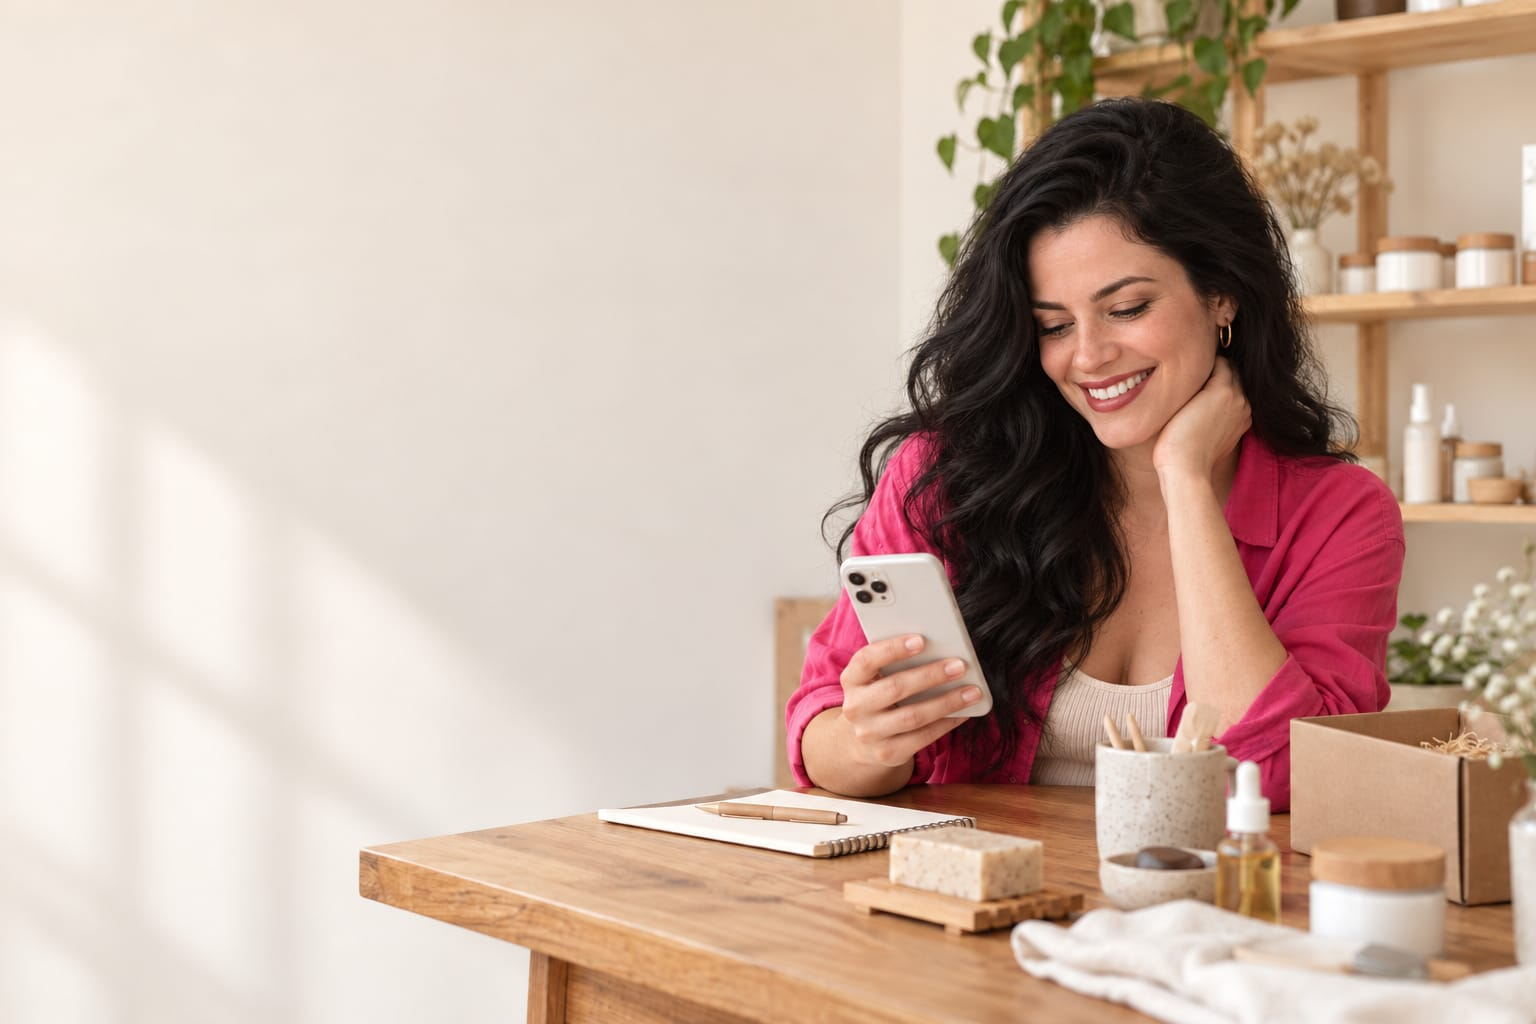
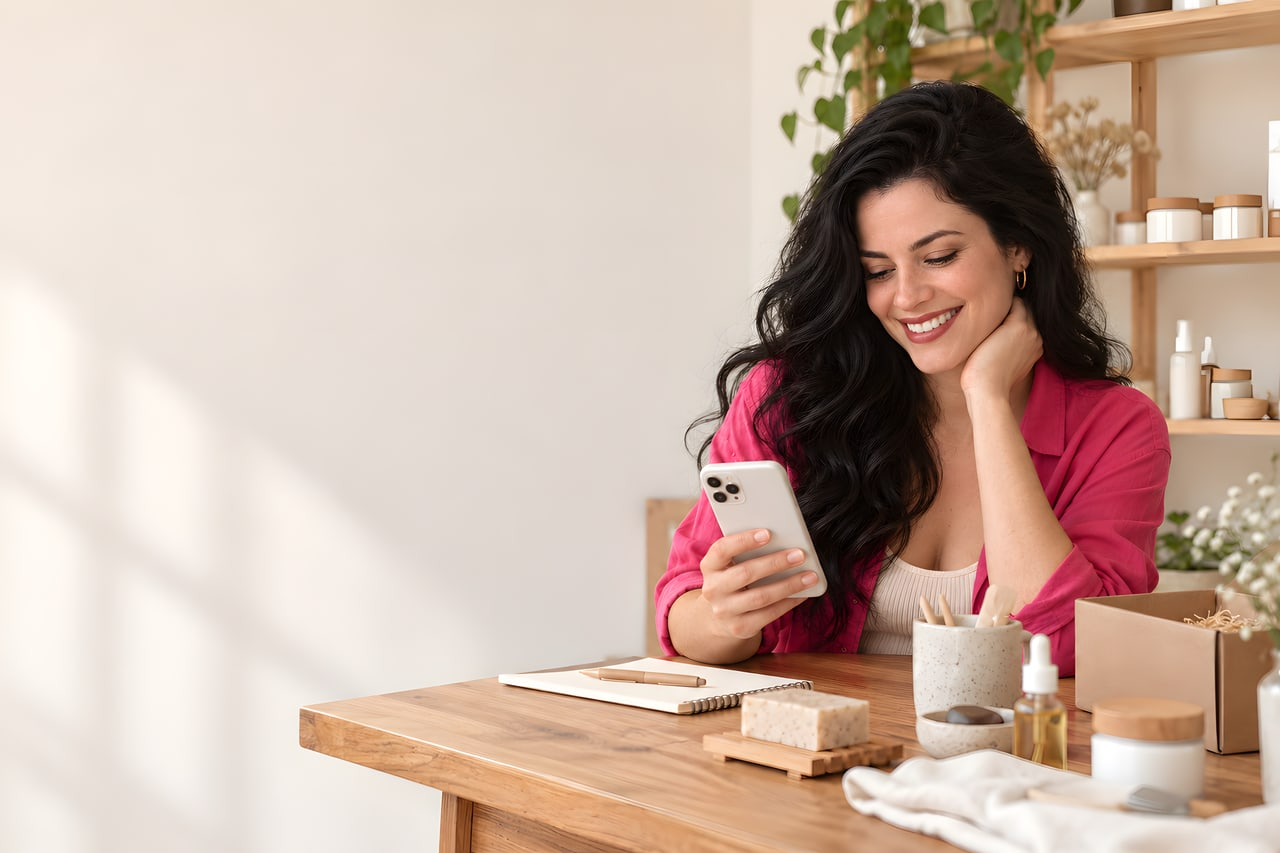
feat(ajuda): blog e central juntos, voto útil salvo, Nôti e status ao vivo
- Abas "Central de ajuda | Blog" e busca única nas duas partes; endereços do
  blog não mudam (SEO). Central ganha "Do blog"; cada post ganha
  "Como fazer no Notifiquei" com artigos da ajuda do mesmo assunto; blog
  aceita capa em foto (frontmatter cover) com a capa desenhada de reserva.
- "Este artigo foi útil?": voto salvo no D1 (functions/api/ajuda-voto.js,
  binding AJUDA_DB) e placar "X de Y acharam útil"; um voto por navegador.
- Nôti acenando no "Precisa de ajuda?".
- Selo de status ao vivo (lê /status/public) em vez da bolinha verde fixa.
- Foto do topo e do contato ampliadas com IA (Real-ESRGAN), srcset 1280/2560.
- Respiro antes da faixa "Não achou?" e no topo das páginas internas.

Claude-Session: https://claude.ai/code/session_01MMT1GTPnFLwBb8WjghwVdo

Changed region(s): [[0.9375, 0.2134, 1.0, 0.2743], [0.9375, 0.4267, 0.9688, 0.4572], [0.5938, 0.3658, 0.625, 0.3962]]

diff --git a/src/styles/ajuda.css b/src/styles/ajuda.css
@@ -17,11 +17,15 @@
 .aj-hero__rodape a { color: var(--ink); font-weight: 600; }
 .aj-hero__pop a { text-decoration: underline; text-underline-offset: 3px; text-decoration-color: var(--line); }
 .aj-status { display: inline-flex; align-items: center; gap: 8px; padding: 6px 12px; border-radius: 999px; background: #fff; border: 1px solid var(--line); text-decoration: none !important; }
-.aj-status__ponto { width: 8px; height: 8px; border-radius: 50%; background: var(--positive); box-shadow: 0 0 0 4px var(--positive-wash); }
+.aj-status__ponto { width: 8px; height: 8px; border-radius: 50%; background: var(--ink-faint); }
+.aj-status[data-estado="operational"] .aj-status__ponto { background: var(--positive); box-shadow: 0 0 0 4px var(--positive-wash); }
+.aj-status[data-estado="degraded"] .aj-status__ponto { background: #D98A00; box-shadow: 0 0 0 4px #d98a001a; }
+.aj-status[data-estado="outage"] .aj-status__ponto { background: #D92D20; box-shadow: 0 0 0 4px #d92d201a; }
 
 /* ── Blocos ─────────────────────────────────────────────────── */
 .aj-bloco { padding: 64px 0 0; }
-.aj-bloco:last-of-type { padding-bottom: 80px; }
+/* Respiro antes da faixa de contato (antes ficava colada em "Mais recursos"). */
+.aj-contato { margin-top: clamp(72px, 8vw, 120px); }
 
 .aj-rapidas { display: grid; grid-template-columns: repeat(3, 1fr); gap: 18px; }
 .aj-cartao-foto { display: flex; align-items: center; gap: 18px; padding: 14px; padding-right: 22px; border-radius: 24px; background: #fff; border: 1px solid var(--line-soft); color: var(--ink); transition: transform .32s cubic-bezier(.2,.8,.2,1), box-shadow .32s; }
@@ -76,7 +80,8 @@
 .aj-contato__acoes { display: flex; align-items: center; gap: 22px; flex-wrap: wrap; margin-top: 26px; }
 
 /* ── Páginas internas ──────────────────────────────────────── */
-.aj-pagina { padding: 130px 0 90px; }
+.home-page.aj .aj-pagina { padding: 128px 0 90px; }
+@media (max-width: 700px) { .home-page.aj .aj-pagina { padding-top: 104px; } }
 .aj-trilha { display: flex; flex-wrap: wrap; align-items: center; gap: 8px; font-size: 14px; color: var(--ink-soft); }
 .aj-trilha a { color: var(--ink-soft); text-decoration: underline; text-underline-offset: 3px; text-decoration-color: var(--line); }
 .aj-trilha a:hover { color: var(--ink); }
@@ -139,6 +144,8 @@
 .aj-util button { padding: 9px 22px; border-radius: 999px; border: 1px solid var(--line); background: #fff; font: inherit; font-weight: 600; cursor: pointer; color: var(--ink); }
 .aj-util button:hover { background: var(--ink); color: var(--paper); }
 .aj-util__obrigado { width: 100%; color: var(--ink-soft); }
+.aj-util__placar { width: 100%; font-size: 13px; color: var(--ink-faint); }
+.aj-util__placar[hidden] { display: none; }
 .aj-util__obrigado a { color: var(--brand-ink); text-decoration: underline; }
 .aj-relacionados { margin-top: 48px; }
 
@@ -146,7 +153,9 @@
 .aj-toc a:hover { color: var(--ink); }
 .aj-toc a.is-ativo { border-left-color: var(--brand); color: var(--ink); font-weight: 600; }
 .aj-ajuda-box { margin-top: 28px; padding: 18px; border-radius: 20px; background: #fff; border: 1px solid var(--line-soft); display: grid; gap: 12px; }
-.aj-ajuda-box img { width: 56px; height: 56px; border-radius: 50%; object-fit: cover; }
+.aj-ajuda-box { text-align: center; justify-items: center; }
+.aj-ajuda-box .aj-ajuda-box__noti { width: 104px; height: 104px; object-fit: contain; margin-top: -4px; }
+.aj-ajuda-box .btn { width: 100%; }
 .aj-ajuda-box p { font-size: 14px; color: var(--ink-soft); line-height: 1.45; }
 .aj-ajuda-box strong { display: block; color: var(--ink); font-size: 15px; margin-bottom: 2px; }
 .aj-ajuda-box .btn { justify-content: center; }
@@ -187,3 +196,19 @@
 @media (prefers-reduced-motion: reduce) {
   .aj-cartao-foto, .aj-guia, .aj-topico { transition: none; }
 }
+
+/* Abas ajuda | blog nas páginas internas */
+.aj-pagina .hub { margin-bottom: 26px; }
+.aj-trilha--abaixo { margin-top: 0; }
+.aj-hero__abas { margin-bottom: 18px; }
+.aj-blog-grade { display: grid; grid-template-columns: repeat(3, 1fr); gap: 18px; }
+.aj-blog-card { display: flex; flex-direction: column; border-radius: 22px; background: #fff; border: 1px solid var(--line-soft); overflow: hidden; color: var(--ink); transition: transform .32s cubic-bezier(.2,.8,.2,1), box-shadow .32s; }
+.aj-blog-card:hover { transform: translateY(-3px); box-shadow: 0 16px 36px #14100e14; }
+.aj-blog-card img { width: 100%; aspect-ratio: 3 / 2; object-fit: cover; background: #f1e9dd; }
+.aj-blog-card div { padding: 16px 18px 20px; display: grid; gap: 6px; }
+.aj-blog-card small { font-size: 11px; font-weight: 700; letter-spacing: .1em; text-transform: uppercase; color: var(--brand-ink); }
+.aj-blog-card h3 { font-size: 18px; line-height: 1.2; letter-spacing: -.02em; }
+.aj-blog-card p { font-size: 14px; color: var(--ink-soft); line-height: 1.45; display: -webkit-box; -webkit-line-clamp: 2; -webkit-box-orient: vertical; overflow: hidden; }
+.aj-bloco__topo { display: flex; justify-content: space-between; align-items: baseline; gap: 12px; }
+.aj-bloco__topo a { font-weight: 600; font-size: 15px; color: var(--brand-ink); }
+@media (max-width: 860px) { .aj-blog-grade { grid-template-columns: 1fr; } }

diff --git a/src/lib/ajuda/artigos.ts b/src/lib/ajuda/artigos.ts
@@ -1,4 +1,6 @@
 import { getCollection, type CollectionEntry } from "astro:content";
+
+export type Post = CollectionEntry<"blog">;
 import { categorias, categoriaPorId } from "../../data/ajuda-categorias";
 
 export type Artigo = CollectionEntry<"ajuda">;
@@ -33,15 +35,55 @@ export const textoPuro = (md: string) =>
     .replace(/\s+/g, " ")
     .trim();
 
-/** Índice enxuto para a busca no navegador (título, resumo e trecho). */
-export function indiceDeBusca(artigos: Artigo[]) {
-  return artigos.map((a) => ({
-    t: a.data.titulo,
-    r: a.data.resumo,
-    c: categoriaPorId(a.data.categoria)?.titulo ?? "",
-    u: urlDe(a),
-    x: textoPuro(a.body ?? "").slice(0, 1200),
-  }));
+export async function postsDoBlog(): Promise<Post[]> {
+  const lista = await getCollection("blog", ({ data }) => !data.draft);
+  return lista.sort((a, b) => b.data.date.getTime() - a.data.date.getTime());
+}
+
+/**
+ * Índice enxuto para a busca no navegador: artigos da ajuda + posts do blog
+ * (a busca é a mesma nas duas partes; os endereços do blog não mudam).
+ */
+export function indiceDeBusca(artigos: Artigo[], posts: Post[] = []) {
+  return [
+    ...artigos.map((a) => ({
+      t: a.data.titulo,
+      r: a.data.resumo,
+      c: categoriaPorId(a.data.categoria)?.titulo ?? "",
+      u: urlDe(a),
+      x: textoPuro(a.body ?? "").slice(0, 1200),
+    })),
+    ...posts.map((p) => ({
+      t: p.data.title,
+      r: p.data.description,
+      c: "Blog",
+      u: `/blog/${p.id}`,
+      x: textoPuro(p.body ?? "").slice(0, 600),
+    })),
+  ];
+}
+
+const PALAVRAS_VAZIAS = new Set("a o as os de da do das dos e em no na nos nas um uma para pra por com sem que como se seu sua no instagram notifiquei direct dm mais vale qual quais o que é".split(" "));
+const termos = (t: string) =>
+  new Set(
+    t.toLowerCase().normalize("NFD").replace(/[\u0300-\u036f]/g, "").split(/[^a-z0-9]+/)
+      .filter((w) => w.length > 3 && !PALAVRAS_VAZIAS.has(w)),
+  );
+
+/** Artigos da ajuda mais ligados a um post do blog (por palavras em comum). */
+export function ajudaParaPost(post: Post, artigos: Artigo[], max = 3): Artigo[] {
+  const dele = termos(`${post.data.title} ${post.data.description} ${(post.data.tags ?? []).join(" ")}`);
+  return artigos
+    .map((a) => {
+      const delas = termos(`${a.data.titulo} ${a.data.resumo}`);
+      let n = 0;
+      for (const w of dele) if (delas.has(w)) n++;
+      return { a, n };
+    })
+    .filter((x) => x.n >= 2)
+    .sort((x, y) => y.n - x.n)
+    .slice(0, max)
+    .map((x) => x.a);
 }
 
 export { categorias, categoriaPorId };

diff --git a/functions/api/ajuda-voto.js b/functions/api/ajuda-voto.js
@@ -1,0 +1,38 @@
+// "Este artigo foi útil?" da central de ajuda (/ajuda). Guarda o voto no D1
+// (binding AJUDA_DB, banco notifiquei-ajuda-votos) e devolve a contagem.
+//   GET  /api/ajuda-voto?artigo=/ajuda/<categoria>/<slug>  → { util, total }
+//   POST /api/ajuda-voto  { artigo, util: true|false }      → { util, total }
+const ARTIGO = /^\/ajuda\/[a-z0-9-]{2,60}\/[a-z0-9-]{2,80}$/;
+const json = (dados, status = 200) =>
+  new Response(JSON.stringify(dados), {
+    status,
+    headers: { 'content-type': 'application/json', 'cache-control': 'no-store' },
+  });
+
+async function contagem(db, artigo) {
+  const r = await db
+    .prepare('SELECT COALESCE(SUM(util), 0) AS util, COUNT(*) AS total FROM voto WHERE artigo = ?')
+    .bind(artigo)
+    .first();
+  return { util: Number(r?.util ?? 0), total: Number(r?.total ?? 0) };
+}
+
+export async function onRequestGet({ request, env }) {
+  const artigo = new URL(request.url).searchParams.get('artigo') || '';
+  if (!ARTIGO.test(artigo) || !env.AJUDA_DB) return json({ util: 0, total: 0 });
+  return json(await contagem(env.AJUDA_DB, artigo));
+}
+
+export async function onRequestPost({ request, env }) {
+  if (!env.AJUDA_DB) return json({ erro: 'indisponível' }, 503);
+  let corpo;
+  try {
+    corpo = await request.json();
+  } catch {
+    return json({ erro: 'corpo inválido' }, 400);
+  }
+  const artigo = String(corpo?.artigo || '');
+  if (!ARTIGO.test(artigo) || typeof corpo?.util !== 'boolean') return json({ erro: 'dados inválidos' }, 400);
+  await env.AJUDA_DB.prepare('INSERT INTO voto (artigo, util) VALUES (?, ?)').bind(artigo, corpo.util ? 1 : 0).run();
+  return json(await contagem(env.AJUDA_DB, artigo));
+}
